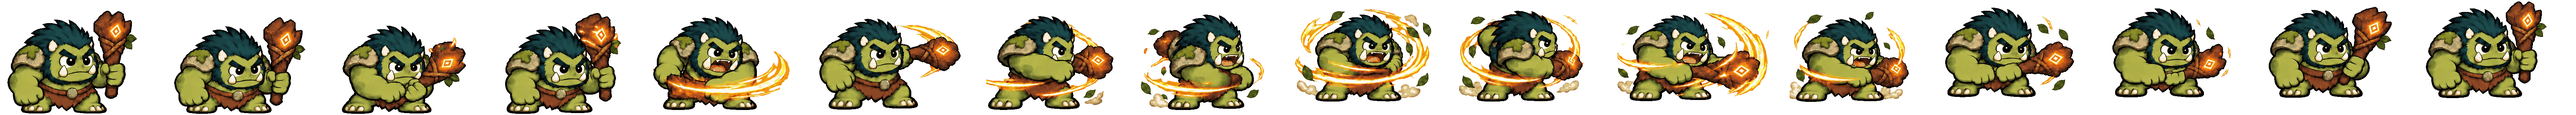
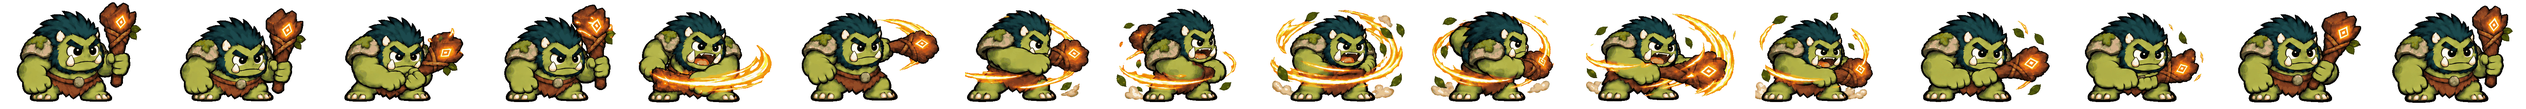
Scale his sheets' rows to each other, so he stops growing mid-clip
Last round fixed the tear and the shrink between sheets and I stopped there,
because the check I built only ever looked at frame 0 of each clip. Frame 0 of
each clip was fine. The other fifteen were not: his feet wandered 56px inside
a single clip - a quarter of the 216px slot - and up to 34px away from where
he stands when idle.

Two things, and only one of them is what I had been assuming.

The rows of one sheet are not drawn at one size. Registering frame 0 against
frame 15 by silhouette IoU - both the same standing pose in all three sheets -
puts the swing's last row 4% smaller than its first and the smash's 12%. This
is what ART-SPEC 7 already records for the five egg sheets, which I had read
and did not connect. Nothing inside a row shows it: each row is consistent to
a pixel or two, which is exactly why frame 0 measured clean. It reads as him
swelling through the clip and snapping back at the loop.

His feet climb as well, and that is separate: the warcry's rows put his lowest
limb at 230, 230, 216 and 194 with no scale drift at all in that sheet and no
pose that would explain it - he stands still and roars. So rows are now scaled
to agree (down to the smallest, so nothing is resampled upwards) and then
anchored by their ground line, per row rather than per frame, which leaves what
he does inside a row - bracing wider, lunging forward - alone.

Finding that ground line took three tries. The alpha silhouette is wrong
[…]

diff --git a/index.html b/index.html
@@ -2133,29 +2133,33 @@ const RAID_BOSS = {
      match. What was bought with that damage is that no two attempts open the
      same way. */
   /* Each clip carries its own scale/dx/dy because the three sheets arrived at
-     three different sizes: measured against a cell of his idle sheet, he is
-     drawn 279 pixels tall standing still, 268 in the swing, 261 in the smash
-     and 215 in the warcry, on canvases that are not even the same width. A
-     sprite-view is the slot's width and whatever height its aspect implies,
-     so all three rendered him short, which is what "he gets smaller when he
-     uses a skill" was. These three numbers are not guesses: bossfit.mjs
-     screenshots his slot, differences it against the same slot with nothing
-     in it, and solves for the values that put his silhouette at the same
-     height, centre and foot line as the idle - which they now are, to within
-     a pixel. Re-run it if any of these sheets is ever redrawn; the sheet
-     geometry and these three numbers only make sense together. */
+     three different sizes, and worse, are not one size within themselves -
+     each row of a sheet is drawn smaller than the row above it, so he grew
+     through every clip and snapped back at the loop. ART-SPEC 7 and 9 have
+     the detail and the packing now corrects it; what is left here is the
+     difference BETWEEN sheets, which the packing cannot see.
+
+     A sprite-view is the slot's width and whatever height its aspect implies,
+     so a sheet that draws him shorter renders a smaller creature however
+     carefully it was cut. These numbers are measured, not guessed: bossfit
+     screenshots his slot frame by frame, differences each against the same
+     slot holding nothing, and solves for the values that put his silhouette
+     at the idle's height, centre and ground line. His feet now move at most
+     5px through a clip and sit within 6px of where he stands idle, against
+     56px and 34px before. Re-run it if any of these sheets is ever redrawn:
+     the sheet geometry and these three numbers only mean anything together. */
   kit: [
     { id:"uwaaargh", name:"UWAAAARGH!", ico:"\u{1F4E2}",
       blurb:"He stops to scream his own name at you. It is the only moment you will get.",
       battle:{ dmg:0, cd:6, stoke:{ mult:1.6, hits:2 },
                charge:{ spd:0.08, pow:0.20, max:2 } },
       sprite:{ src:"art/boss-skill-warcry.png", frames:16, rows:1, fps:7,
-               aspect:1.7913, scale:1.60, dx:9.1, dy:6.2 } },
+               aspect:1.6386, scale:1.651, dx:8.6, dy:19.9 } },
     { id:"splitter", name:"Splitter", ico:"\u{1FAA8}",
       blurb:"Both hands overhead, then down. The ground goes first and you go second.",
       battle:{ dmg:2.2, pierce:0.7, cd:4 },
       sprite:{ src:"art/boss-skill-smash.png", frames:16, rows:1, fps:9,
-               aspect:1.2073, scale:1.15, dx:2.7, dy:17.7 } },
+               aspect:1.1881, scale:1.321, dx:10.8, dy:5.0 } },
     /* Repacked from a second export. The first arrived as RGB on solid white,
        and keying that left a pale rim on 45.8% of his outline - anti-aliasing
        had smeared the black edge into the background, and the greys it left
@@ -2166,7 +2170,7 @@ const RAID_BOSS = {
       blurb:"A flat, sweeping arc that takes everything at knee height with it.",
       battle:{ dmg:1.35, cd:2 },
       sprite:{ src:"art/boss-skill-swing.png", frames:16, rows:1, fps:9,
-               aspect:1.3880, scale:1.19, dx:7.3, dy:8.9 } }
+               aspect:1.4433, scale:1.19, dx:0.9, dy:15.6 } }
   ],
   /* Defence is low for a creature this size, and deliberately. It does not
      change how long anybody survives - that is entirely his power - it only
@@ -3836,8 +3840,8 @@ function spriteConfig(species, stage, level){
 /* Stamped into Settings so a device can say which build it is running. GitHub
    Pages caches index.html and offers no way to set headers on it, so a missing
    feature and a stale page look the same without this. */
-const BUILD_ID = "2026-09-22 5ffb4c3";
-const ART_VERSION = "24";
+const BUILD_ID = "2026-09-23 4ca0c1e";
+const ART_VERSION = "25";
 function assetURL(src){
   return /^art\//.test(src) ? src + "?v=" + ART_VERSION : src;
 }

diff --git a/ART-SPEC.md b/ART-SPEC.md
@@ -202,15 +202,37 @@ and the overhang comes with the frame it belongs to. The overhang is the
 animation, not an error to correct, so each frame goes back at its offset from
 its **even** cell origin and the whole sheet is widened to hold the largest.
 
-Size is the separate problem. Measured against a cell of his idle sheet he
-stands 279 px tall doing nothing, 268 mid-swing, 261 mid-smash and 215
-mid-roar, on canvases that are not all the same width. Nothing in the packing
-can tell: each sheet is internally consistent. It shows up only on screen,
-because a `sprite-view` is the slot's width and whatever height its `aspect`
-implies, so a shorter drawing renders a smaller creature. `scale`, `dx` and
-`dy` are what correct it, and they are measured rather than guessed - shoot
-the slot, difference it against the same slot holding nothing, and solve for
-the values that put the silhouette at the idle's height, centre and foot line.
+Size is the separate problem, and it has two halves.
+
+Within a sheet, the rows are not the same size. Registering the first frame
+against the last — both the same standing pose in all three of these — puts
+the swing's last row 4% smaller than its first and the smash's 12%, the same
+thing §7 records for the egg sheets. Nothing inside one row shows it, because
+each row is internally consistent to a pixel or two; it reads as the creature
+growing through the clip and snapping back at the loop. Alongside it his feet
+climb: 230, 230, 216, 194 down the warcry's four rows, with no scale drift at
+all there and no pose reason for it. So each row is scaled to agree with the
+others — down to the smallest, so nothing is ever resampled upwards — and then
+anchored by its ground line, **per row rather than per frame**, which leaves
+what he actually does inside a row intact. His lowest limb is the anchor: his
+skin reads about (170,178,86), his fur skirt cuts his legs off from his torso
+so every green piece over ~600px counts rather than just the largest, and that
+leaves out the leaves. On screen his feet went from wandering 56 px within one
+clip to 5.
+
+Between sheets, he is simply drawn at different sizes, and no packing can tell
+— each sheet is self-consistent. It shows up only on screen, because a
+`sprite-view` is the slot's width and whatever height its `aspect` implies, so
+a shorter drawing renders a smaller creature. `scale`, `dx` and `dy` correct
+that, measured rather than guessed: shoot the slot, difference it against the
+same slot holding nothing, and solve for the values that put the silhouette at
+the idle's height, centre and ground line.
+
+Two traps in the measuring itself. Colour-keying the creature is easy to get
+wrong — this one renders (189,189,82) on screen, near enough to his own club
+that any threshold loose enough for his arms takes the club too — so
+difference against an empty slot instead. And `getBoundingClientRect()`
+answers a different question: the slot is the same 216 px whatever is in it.
 
 ## 10. Generation prompts
 
